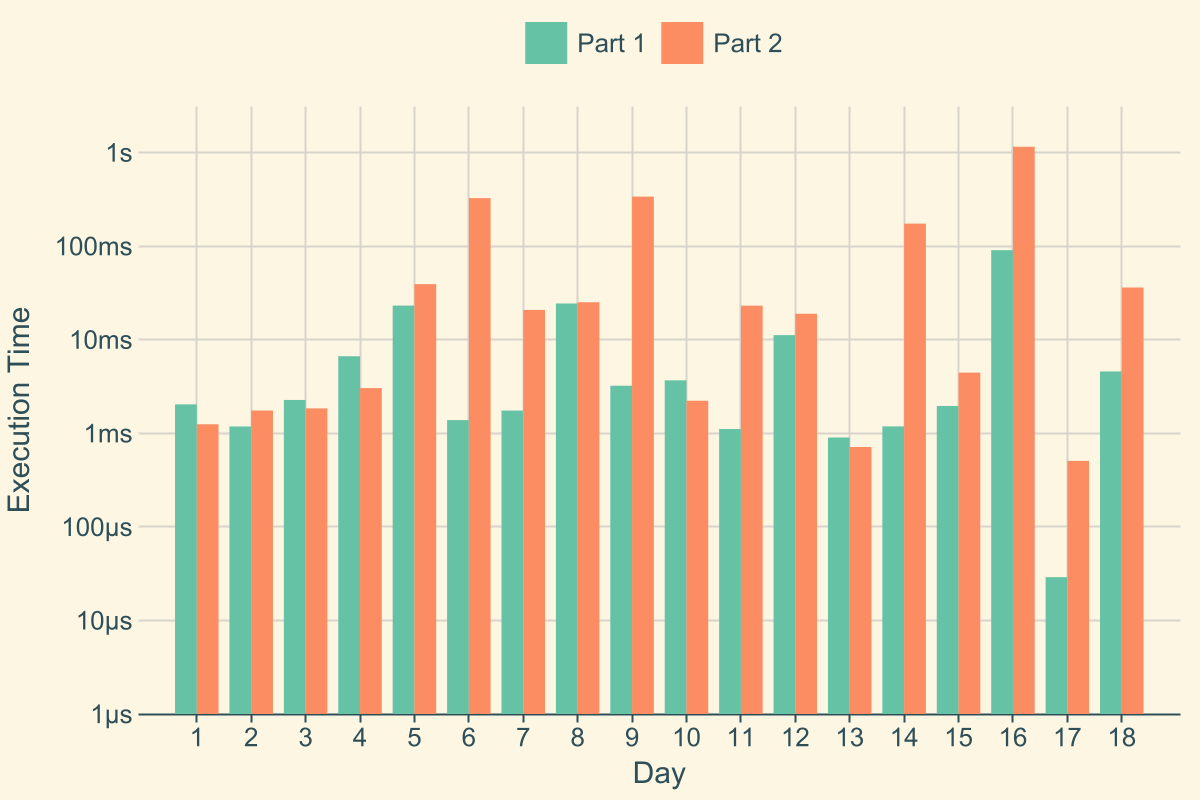
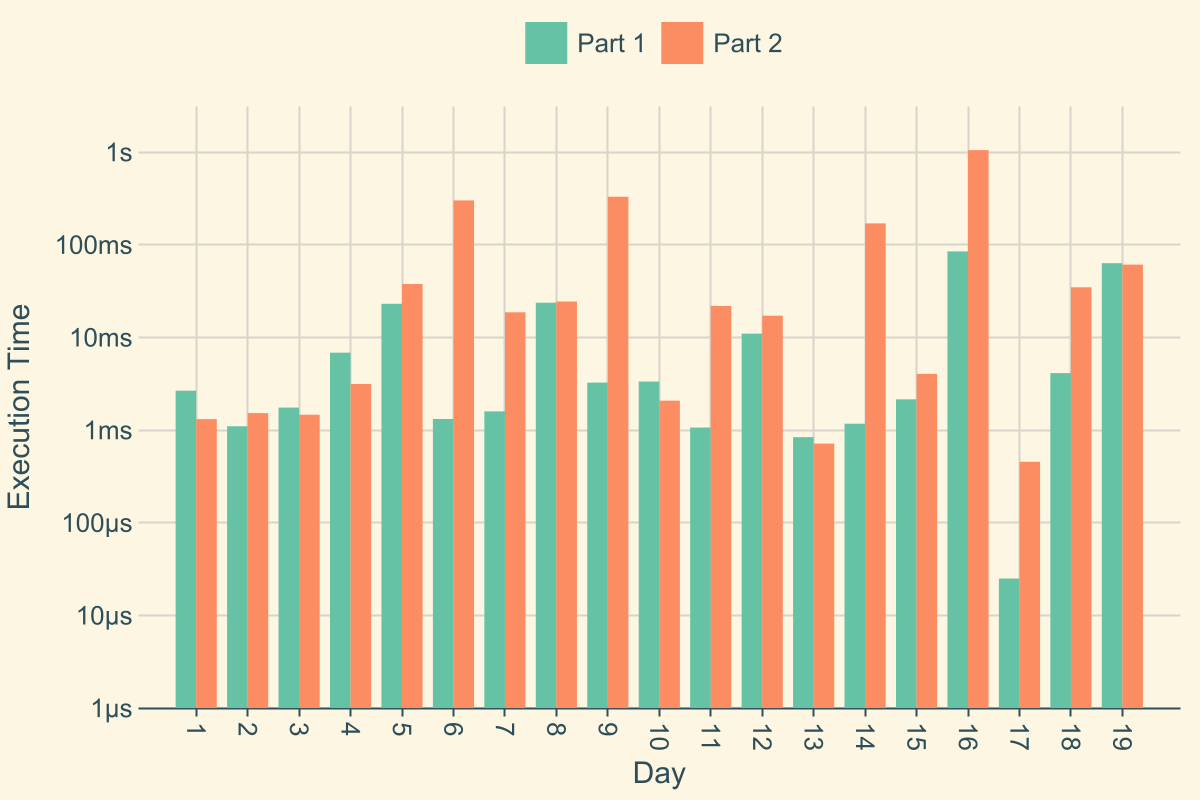
2024 Day19 + times

diff --git a/src/net/sheltem/aoc/y2024/Day19.kt b/src/net/sheltem/aoc/y2024/Day19.kt
@@ -1,0 +1,35 @@
+package net.sheltem.aoc.y2024
+
+suspend fun main() {
+    Day19().run()
+}
+
+class Day19 : Day<Long>(6, 16) {
+
+    override suspend fun part1(input: List<String>): Long = input
+        .also { cache.clear() }
+        .parse()
+        .let { (supply, patterns) -> patterns.count { supply.validate(it) >= 1L } }
+        .toLong()
+
+    override suspend fun part2(input: List<String>): Long = input
+        .also { cache.clear() }
+        .parse()
+        .let { (supply, patterns) -> patterns.sumOf { supply.validate(it) } }
+
+    private val cache = HashMap<String, Long>()
+
+    private fun List<String>.validate(pattern: String): Long {
+        return when {
+            pattern.isEmpty() -> 1L
+            cache.contains(pattern) -> cache[pattern]!!
+            else -> this.sumOf {
+                if (pattern.startsWith(it))
+                    this.validate(pattern.drop(it.length))
+                else 0L
+            }.also { cache[pattern] = it }
+        }
+    }
+
+    private fun List<String>.parse() = let { this[0].split(", ") to this.drop(2) }
+}

diff --git a/src/net/sheltem/aoc/y2024/Year2024.kt b/src/net/sheltem/aoc/y2024/Year2024.kt
@@ -21,7 +21,7 @@ private val days = listOf(
     "16" to Day16(),
     "17" to Day17(),
     "18" to Day18(),
-//    "19" to Day19(),
+    "19" to Day19(),
 //    "20" to Day20(),
 //    "21" to Day21(),
 //    "22" to Day22(),

diff --git a/TIMES2024.MD b/TIMES2024.MD
@@ -1,23 +1,24 @@
 | Day |  Part A |  Part B |   Total |
 |---:|--------:|--------:|--------:|
-| 01 | 0.0020s | 0.0012s | 0.0033s |
-| 02 | 0.0012s | 0.0018s | 0.0029s |
-| 03 | 0.0023s | 0.0018s | 0.0041s |
-| 04 | 0.0067s | 0.0030s | 0.0097s |
-| 05 | 0.0232s | 0.0392s | 0.0624s |
-| 06 | 0.0014s | 0.3260s | 0.3274s |
-| 07 | 0.0017s | 0.0208s | 0.0226s |
-| 08 | 0.0244s | 0.0251s | 0.0495s |
-| 09 | 0.0032s | 0.3382s | 0.3414s |
-| 10 | 0.0037s | 0.0022s | 0.0059s |
-| 11 | 0.0011s | 0.0231s | 0.0242s |
-| 12 | 0.0112s | 0.0189s | 0.0301s |
-| 13 | 0.0009s | 0.0007s | 0.0016s |
-| 14 | 0.0012s | 0.1741s | 0.1752s |
-| 15 | 0.0020s | 0.0044s | 0.0064s |
-| 16 | 0.0906s | 1.1532s | 1.2438s |
+| 01 | 0.0027s | 0.0013s | 0.0040s |
+| 02 | 0.0011s | 0.0015s | 0.0026s |
+| 03 | 0.0018s | 0.0015s | 0.0032s |
+| 04 | 0.0068s | 0.0031s | 0.0100s |
+| 05 | 0.0231s | 0.0377s | 0.0608s |
+| 06 | 0.0013s | 0.3011s | 0.3024s |
+| 07 | 0.0016s | 0.0187s | 0.0203s |
+| 08 | 0.0237s | 0.0244s | 0.0481s |
+| 09 | 0.0033s | 0.3299s | 0.3331s |
+| 10 | 0.0033s | 0.0021s | 0.0054s |
+| 11 | 0.0011s | 0.0219s | 0.0230s |
+| 12 | 0.0110s | 0.0172s | 0.0282s |
+| 13 | 0.0008s | 0.0007s | 0.0016s |
+| 14 | 0.0012s | 0.1702s | 0.1714s |
+| 15 | 0.0021s | 0.0040s | 0.0062s |
+| 16 | 0.0848s | 1.0503s | 1.1350s |
 | 17 | 0.0000s | 0.0005s | 0.0005s |
-| 18 | 0.0046s | 0.0361s | 0.0407s |
+| 18 | 0.0041s | 0.0348s | 0.0389s |
+| 19 | 0.0633s | 0.0611s | 0.1244s |
 
 
-Total time: 2.351823297s
+Total time: 2.318855s
